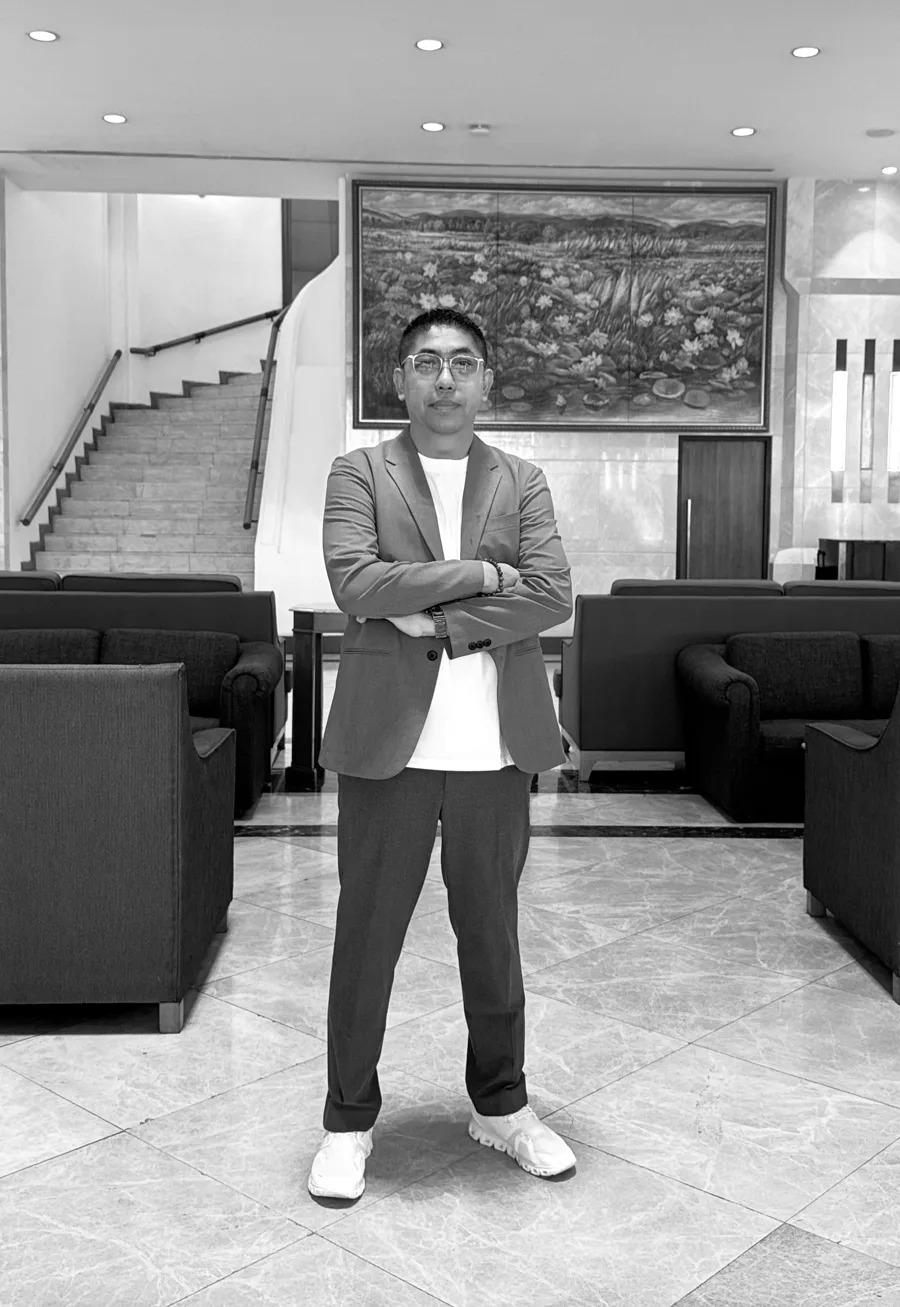
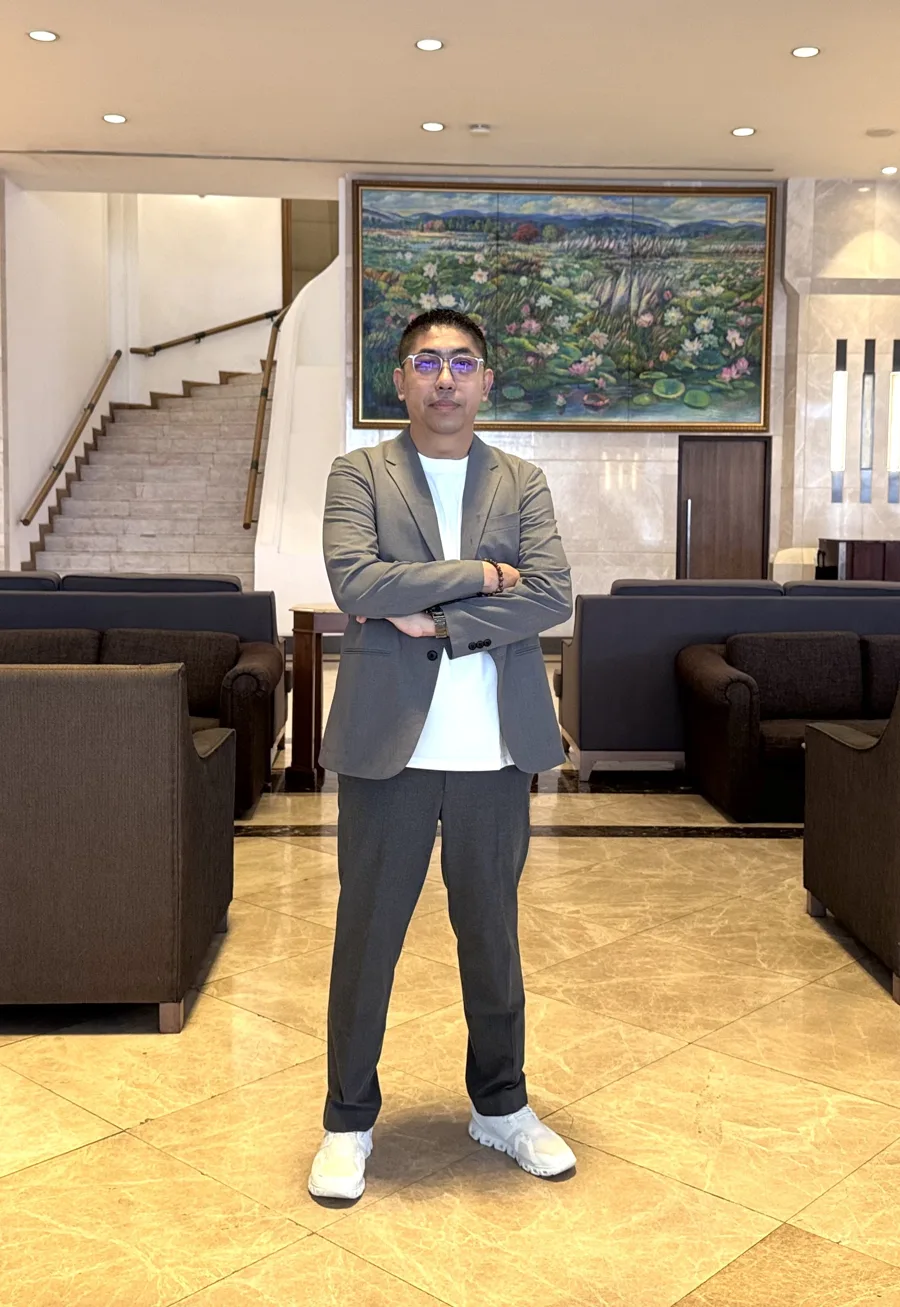
Header navigation, colour hero photo, 5-second keyboard clicks
- Sticky gradient header with section links; phone menu closes after a tap
- Hero photo back in colour
- Briefing sound: soft keyboard clicks instead of beeps, first 5 seconds only

Claude-Session: https://claude.ai/code/session_01BuEdxnU4yJrBdLMoL8WMjc

diff --git a/lib/briefing.js b/lib/briefing.js
@@ -6,8 +6,8 @@
 //   button.brief-sound                            sound control
 //
 // When the screen scrolls into view, the lines are typed out one by one, with a
-// short computer "ti" beep per character (film-terminal style). Browsers only allow
-// sound after the visitor has clicked or pressed a key on the page, so the beeps
+// soft keyboard click per character for the first 5 seconds. Browsers only allow
+// sound after the visitor has clicked or pressed a key on the page, so the clicks
 // play once the page is unlocked; the button replays the briefing with sound.
 
 export function initBriefing(root) {
@@ -47,20 +47,36 @@ export function initBriefing(root) {
     window.addEventListener(ev, unlock, { once: true, capture: true })
   );
 
-  function beep(ch) {
+  // Soft keyboard click: a very short burst of filtered noise.
+  // Sound plays only for the first SOUND_MS of each typing run.
+  const SOUND_MS = 5000;
+  let soundStart = 0;
+  let noise = null;
+
+  function click(ch) {
     if (!soundOn || !ctx || ctx.state !== "running") return;
+    if (performance.now() - soundStart > SOUND_MS) {
+      root.classList.remove("is-sounding");
+      return;
+    }
+    if (!noise) {
+      const len = Math.floor(ctx.sampleRate * 0.03);
+      noise = ctx.createBuffer(1, len, ctx.sampleRate);
+      const data = noise.getChannelData(0);
+      for (let i = 0; i < len; i++) data[i] = (Math.random() * 2 - 1) * Math.pow(1 - i / len, 3);
+    }
     const t = ctx.currentTime;
-    const osc = ctx.createOscillator();
+    const src = ctx.createBufferSource();
+    src.buffer = noise;
+    src.playbackRate.value = 0.85 + Math.random() * 0.3;
+    const band = ctx.createBiquadFilter();
+    band.type = "bandpass";
+    band.frequency.value = ch === " " ? 1400 : 2600 + Math.random() * 900;
+    band.Q.value = 1.2;
     const gain = ctx.createGain();
-    osc.type = "square";
-    // high "ti" per character, a lower blip for spaces
-    osc.frequency.value = ch === " " ? 900 : 1700 + Math.random() * 600;
-    gain.gain.setValueAtTime(0.0001, t);
-    gain.gain.exponentialRampToValueAtTime(0.035, t + 0.003);
-    gain.gain.exponentialRampToValueAtTime(0.0001, t + 0.03);
-    osc.connect(gain).connect(ctx.destination);
-    osc.start(t);
-    osc.stop(t + 0.035);
+    gain.gain.value = ch === " " ? 0.18 : 0.26;
+    src.connect(band).connect(gain).connect(ctx.destination);
+    src.start(t);
   }
 
   // ---------- typing ----------
@@ -79,6 +95,7 @@ export function initBriefing(root) {
   async function type() {
     const id = ++run;
     typing = true;
+    soundStart = performance.now();
     clear();
     root.classList.remove("is-armed", "is-done");
     root.classList.add("is-typing");
@@ -91,7 +108,7 @@ export function initBriefing(root) {
       for (const ch of l.textFull) {
         if (id !== run) return;
         l.text.textContent += ch;
-        beep(ch);
+        click(ch);
         await wait(ch === " " ? 14 : 22 + Math.random() * 26);
       }
       l.li.classList.remove("is-active");

diff --git a/app/globals.css b/app/globals.css
@@ -175,6 +175,130 @@ a {
   outline-color: var(--white);
 }
 
+/* ---------- Header ---------- */
+
+html {
+  scroll-padding-top: 72px;
+}
+
+body::before {
+  content: "";
+  position: fixed;
+  inset: 0 0 auto;
+  height: env(safe-area-inset-top, 0px);
+  z-index: 60;
+  background: var(--blue-900);
+}
+
+.site-header {
+  position: sticky;
+  top: env(safe-area-inset-top, 0px);
+  z-index: 50;
+  background: linear-gradient(to right, rgba(30, 58, 138, 0.96), rgba(55, 48, 163, 0.96));
+  backdrop-filter: blur(8px);
+  color: var(--white);
+  box-shadow: 0 1px 0 rgba(255, 255, 255, 0.08), 0 6px 18px -10px rgba(0, 0, 0, 0.4);
+}
+
+.header-inner {
+  display: flex;
+  align-items: center;
+  justify-content: space-between;
+  gap: 24px;
+  height: 60px;
+}
+
+.brand {
+  color: var(--white);
+  font-weight: 700;
+  font-size: 1.1rem;
+  text-decoration: none;
+  white-space: nowrap;
+}
+
+.brand-at {
+  color: var(--blue-100);
+  font-weight: 500;
+}
+
+.nav-desktop ul,
+.nav-mobile ul {
+  list-style: none;
+  margin: 0;
+  padding: 0;
+}
+
+.nav-desktop ul {
+  display: flex;
+  gap: 4px;
+}
+
+.nav-desktop a,
+.nav-mobile a {
+  display: block;
+  color: rgba(255, 255, 255, 0.88);
+  text-decoration: none;
+  font-size: 0.92rem;
+  font-weight: 500;
+  padding: 8px 10px;
+  border-radius: 6px;
+}
+
+.nav-desktop a:hover,
+.nav-mobile a:hover {
+  color: var(--white);
+  background: rgba(255, 255, 255, 0.12);
+}
+
+.site-header :focus-visible {
+  outline-color: var(--white);
+}
+
+.nav-mobile {
+  display: none;
+  position: relative;
+}
+
+.nav-mobile summary {
+  list-style: none;
+  cursor: pointer;
+  display: inline-flex;
+  align-items: center;
+  justify-content: center;
+  width: 42px;
+  height: 42px;
+  border-radius: 8px;
+  color: var(--white);
+}
+
+.nav-mobile summary::-webkit-details-marker {
+  display: none;
+}
+
+.nav-mobile[open] summary {
+  background: rgba(255, 255, 255, 0.14);
+}
+
+.nav-mobile nav {
+  position: absolute;
+  right: 0;
+  top: 50px;
+  min-width: 200px;
+  padding: 8px;
+  border-radius: 10px;
+  background: var(--blue-900);
+  box-shadow: 0 20px 40px -12px rgba(0, 0, 0, 0.5);
+}
+
+@media (max-width: 1000px) {
+  .nav-desktop {
+    display: none;
+  }
+  .nav-mobile {
+    display: block;
+  }
+}
+
 /* ---------- Hero ---------- */
 
 .hero {

diff --git a/app/page.tsx b/app/page.tsx
@@ -24,6 +24,7 @@ import WroTrack from "@/components/WroTrack";
 import WroGallery from "@/components/WroGallery";
 import Briefing from "@/components/Briefing";
 import HeroArt from "@/components/HeroArt";
+import MobileNav from "@/components/MobileNav";
 import {
   person,
   facts,
@@ -73,6 +74,17 @@ const eduIcon: Record<string, typeof ShieldCheck> = {
   teaching: BookOpen,
 };
 
+const nav = [
+  { href: "#roles", label: "About" },
+  { href: "#achievements", label: "Achievements" },
+  { href: "#robotics", label: "WRO" },
+  { href: "#journey", label: "Journey" },
+  { href: "#expertise", label: "Expertise" },
+  { href: "#services", label: "Services" },
+  { href: "#education", label: "Education" },
+  { href: "#contact", label: "Contact" },
+];
+
 const jsonLd = {
   "@context": "https://schema.org",
   "@type": "Person",
@@ -94,6 +106,24 @@ export default async function Home() {
       <a className="skip" href="#main">
         Skip to content
       </a>
+
+      <header className="site-header">
+        <div className="container header-inner">
+          <a href="#top" className="brand">
+            Myo Min Thu <span className="brand-at">@ DJ</span>
+          </a>
+          <nav aria-label="Sections" className="nav-desktop">
+            <ul>
+              {nav.map((n) => (
+                <li key={n.href}>
+                  <a href={n.href}>{n.label}</a>
+                </li>
+              ))}
+            </ul>
+          </nav>
+          <MobileNav items={nav} />
+        </div>
+      </header>
 
       <main id="main">
         {/* Hero */}
@@ -117,7 +147,7 @@ export default async function Home() {
             <div className="hero-photo">
               <Image
                 src={portrait}
-                alt="Myo Min Thu standing in a suit with arms crossed in a hotel lobby, full-length black and white photo"
+                alt="Myo Min Thu standing in a grey suit with arms crossed in a hotel lobby"
                 priority
                 placeholder="blur"
                 sizes="(max-width: 860px) 280px, 360px"

diff --git a/components/MobileNav.tsx b/components/MobileNav.tsx
@@ -1,0 +1,28 @@
+"use client";
+
+import { useRef } from "react";
+import { Menu } from "lucide-react";
+
+// Phone menu: a <details> dropdown that closes after a link is chosen.
+export default function MobileNav({ items }: { items: { href: string; label: string }[] }) {
+  const ref = useRef<HTMLDetailsElement>(null);
+
+  return (
+    <details className="nav-mobile" ref={ref}>
+      <summary aria-label="Open menu">
+        <Menu size={22} aria-hidden="true" />
+      </summary>
+      <nav aria-label="Sections">
+        <ul>
+          {items.map((n) => (
+            <li key={n.href}>
+              <a href={n.href} onClick={() => ref.current?.removeAttribute("open")}>
+                {n.label}
+              </a>
+            </li>
+          ))}
+        </ul>
+      </nav>
+    </details>
+  );
+}
